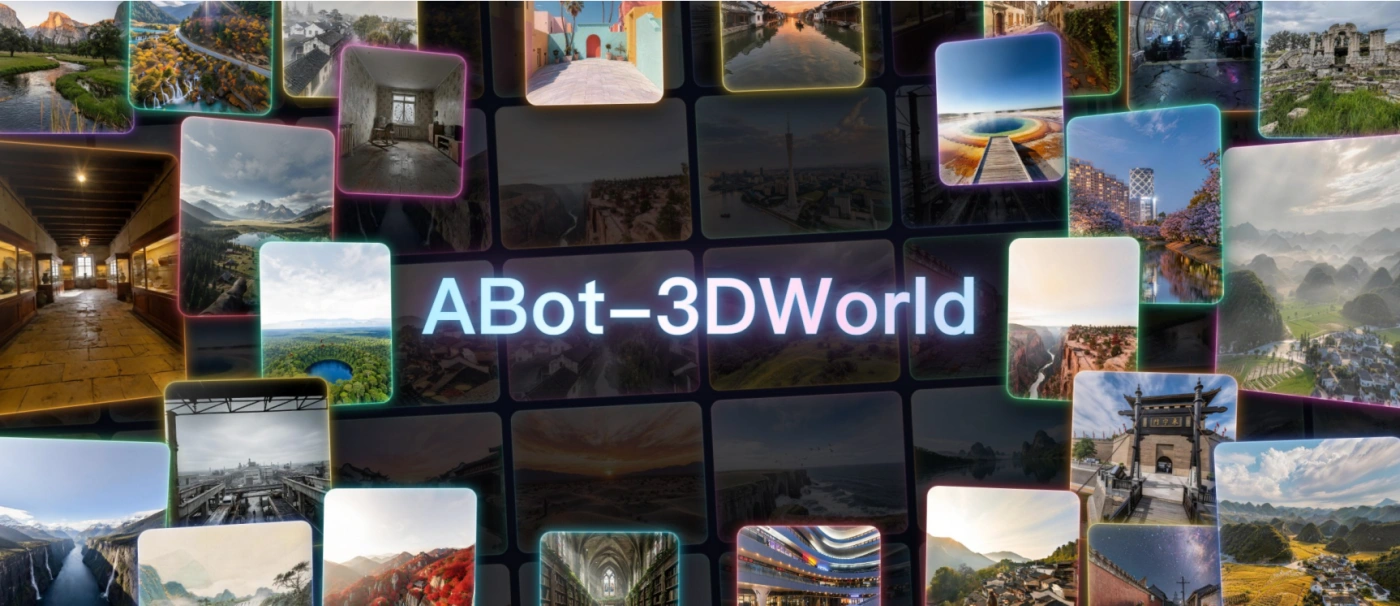
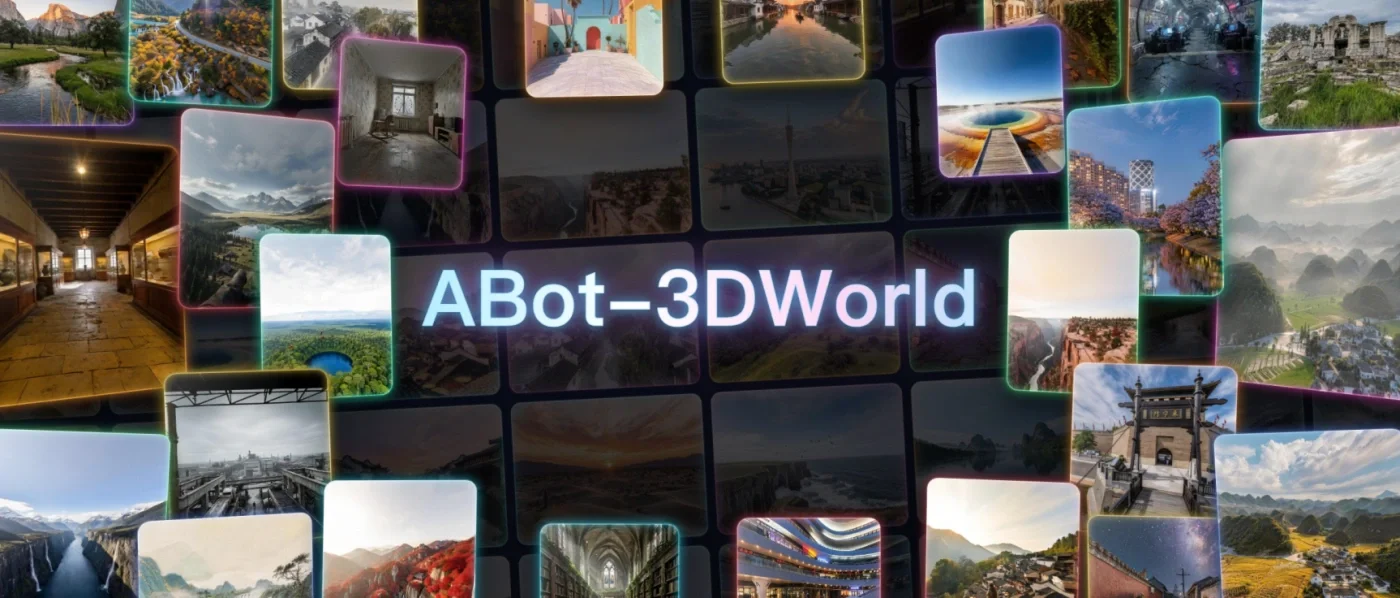
content + UX polish: news expansion, CTAs, SEO title, thumbnails
News:
- add AGIBOT World Model Challenge champion (trophy glyph)
- add "Yunjing" (云境) digital-twin talk (WeChat article)
- SocialNav: add project page link
- From Orbit to Ground: add 机器之心 news link

Hero: highlighted "Homepage" copy-to-clipboard CTA (www.mingchaosun.com)
Publications: Benchmark chip promoted to solid-mint CTA (matches Live Demo);
  card data refresh (highlights/thumbs/links for ABot-N1, ABot-EARTH, POINav,
  WorldRoamBench, ABot-World code, SocialNav award); title-wrap pretty
Layout: <title> leads with affiliation for the Google snippet
Thumbnails: crop white top edge (ABot-World, ABot-3DWorld); add ABot-N1,
  POINav, WorldRoamBench, Abot-N0; re-crop ABot-EARTH

diff --git a/src/data/site.ts b/src/data/site.ts
@@ -174,8 +174,8 @@ export const news: NewsEntry[] = [
   {
     year: '2026.07',
     text: {
-      en: 'Released **WorldRoamBench**, an open-world benchmark probing the long-horizon stability of interactive world models. [homepage →](https://worldroam.amap.com/)',
-      zh: '发布 **WorldRoamBench**,衡量交互式世界模型长时序稳定性的开放世界基准。[主页 →](https://worldroam.amap.com/)',
+      en: 'Released **WorldRoamBench**, an open-world benchmark probing the long-horizon stability of interactive world models. [Benchmark homepage →](https://worldroam.amap.com/)',
+      zh: '发布 **WorldRoamBench**,衡量交互式世界模型长时序稳定性的开放世界基准。[Benchmark 主页 →](https://worldroam.amap.com/)',
     },
   },
   {
@@ -188,15 +188,22 @@ export const news: NewsEntry[] = [
   {
     year: '2026.06',
     text: {
-      en: '**SocialNav**, a human-inspired foundation model for socially-aware navigation — selected as a **CVPR 2026 Best Paper Candidate**!',
-      zh: '**SocialNav**,受人类启发的具身社会感知导航基础模型——入选 **CVPR 2026 最佳论文候选**!',
+      en: '**SocialNav**, a human-inspired foundation model for socially-aware navigation — selected as a **CVPR 2026 Best Paper Candidate**! [project →](https://amap-eai.github.io/SocialNav/)',
+      zh: '**SocialNav**,受人类启发的具身社会感知导航基础模型——入选 **CVPR 2026 最佳论文候选**![项目主页 →](https://amap-eai.github.io/SocialNav/)',
+    },
+  },
+  {
+    year: '2026.05',
+    text: {
+      en: '🏆 Won **1st place** at the **AGIBOT World Model Challenge**.',
+      zh: '🏆 荣获 **AGIBOT World Model Challenge** 大赛**冠军**。',
     },
   },
   {
     year: '2026.03',
     text: {
-      en: '**From Orbit to Ground** accepted to CVPR 2026 Findings — generative city-scale photogrammetry from extreme off-nadir satellite imagery. [project →](https://pku-vcl-geometry.github.io/Orbit2Ground/)',
-      zh: '**From Orbit to Ground** 被 CVPR 2026 Findings 接收——从极端倾斜卫星影像做生成式城市级摄影测量。[项目主页 →](https://pku-vcl-geometry.github.io/Orbit2Ground/)',
+      en: '**From Orbit to Ground** accepted to CVPR 2026 Findings — generative city-scale photogrammetry from extreme off-nadir satellite imagery. [project →](https://pku-vcl-geometry.github.io/Orbit2Ground/) [news →](https://mp.weixin.qq.com/s/Ntnd1ooLbcJ-kNB9sQ4jzQ)',
+      zh: '**From Orbit to Ground** 被 CVPR 2026 Findings 接收——从极端倾斜卫星影像做生成式城市级摄影测量。[项目主页 →](https://pku-vcl-geometry.github.io/Orbit2Ground/) [机器之心报道 →](https://mp.weixin.qq.com/s/Ntnd1ooLbcJ-kNB9sQ4jzQ)',
     },
   },
   {
@@ -211,6 +218,13 @@ export const news: NewsEntry[] = [
     text: {
       en: '**CLoD-GS** accepted to ICLR 2026 — continuous level-of-detail rendering built on 3D Gaussian Splatting.',
       zh: '**CLoD-GS** 被 ICLR 2026 接收——基于 3D 高斯泼溅的连续细节层次渲染。',
+    },
+  },
+  {
+    year: '2025.08',
+    text: {
+      en: 'Gave a talk on **"Yunjing" (云境)**, AMap\'s immersive AI product — sharing its core capabilities and AMap\'s recent advances in digital-twin technology and applications. [news →](https://mp.weixin.qq.com/s/mZhDBmQXgsPaHyNINRfJ7A?scene=1)',
+      zh: '分享高德地图沉浸式 AI 产品**"云境"**的核心技术能力,展示高德近期在数字孪生领域的技术成果与应用场景。[公众号文章 →](https://mp.weixin.qq.com/s/mZhDBmQXgsPaHyNINRfJ7A?scene=1)',
     },
   },
 ];
@@ -247,9 +261,13 @@ export const publications: Publication[] = [
     venue: 'Technical Report',
     year: 2026,
     citations: 0,
-    highlight: 'Infinite interactive world rollout that fits on a single desktop GPU.',
+    highlight: 'An action-conditioned video world model enabling real-time, long-horizon closed-loop interaction, trained on AAA games, simulators, and web video.',
     thumb: '/pub/abotworld.webp',
-    links: [{ label: 'arXiv', url: 'https://arxiv.org/abs/2607.19191' }],
+    links: [
+      { label: 'demo', url: 'https://abot-world.amap.com/' },
+      { label: 'arXiv', url: 'https://arxiv.org/abs/2607.19191' },
+      { label: 'code', url: 'https://github.com/amap-cvlab/ABot-World' },
+    ],
   },
   {
     title: 'ABot-3DWorld 0: A Universal World Model to Explore Any 3D Space',
@@ -258,10 +276,13 @@ export const publications: Publication[] = [
     venue: 'Technical Report',
     year: 2026,
     citations: 1,
-    highlight: 'A universal world model that can explore and interact with any 3D space. (first-author)',
+    highlight: 'A universal multimodal 3D world model that turns text, image, and video inputs into high-fidelity, explorable 3D worlds.',
     thumb: '/pub/abot3dworld.webp',
     featured: true,
-    links: [{ label: 'arXiv', url: 'https://arxiv.org/abs/2607.11673' }],
+    links: [
+      { label: 'demo', url: 'https://abot-world.amap.com/plaza' },
+      { label: 'arXiv', url: 'https://arxiv.org/abs/2607.11673' },
+    ],
   },
   {
     title: 'ABot-N1: Toward a General Visual-Language Navigation Foundation Model',
@@ -270,18 +291,28 @@ export const publications: Publication[] = [
     venue: 'Technical Report',
     year: 2026,
     citations: 0,
-    highlight: 'A general visual-language navigation foundation model.',
-    links: [{ label: 'arXiv', url: 'https://arxiv.org/abs/2607.10383' }],
+    highlight: 'A step toward a general Visual Language Navigation foundation model, decoupling cognition from control via a slow-fast architecture guided by dual visual-language signals.',
+    thumb: '/pub/abotn1.webp',
+    whiteThumb: true,
+    links: [
+      { label: 'arXiv', url: 'https://arxiv.org/abs/2607.10383' },
+      { label: 'project', url: 'https://amap-cvlab.github.io/ABot-Navigation/ABot-N1/' },
+      { label: 'code', url: 'https://github.com/amap-cvlab/ABot-Navigation/tree/ABotN-Bench' },
+    ],
   },
   {
     title: 'WorldRoamBench: An Open-World Benchmark for Long-Horizon Stability of Interactive World Models',
     authors: 'TB Xu, J Sui, Z Gao, K Shi, W Yang, Z Liu, Z Sun, M Sun, H Pan, F Jiang, et al.',
     fullAuthors: 'Ting-Bing Xu, Jiacheng Sui, Zhe Gao, Kewei Shi, Wenjin Yang, Zhicheng Liu, Zhaoxu Sun, Mingchao Sun, Hongyu Pan, Fan Jiang, Mu Xu, Qi Fan, Yang Gao, Yong Li, Baoquan Chen',
-    venue: 'arXiv',
+    venue: 'Benchmark',
     year: 2026,
     citations: 1,
     highlight: 'A benchmark probing long-horizon stability of interactive world models.',
-    links: [{ label: 'arXiv', url: 'https://arxiv.org/abs/2606.31672' }],
+    thumb: '/pub/worldroambench.webp',
+    links: [
+      { label: 'benchmark', url: 'https://worldroam.amap.com/' },
+      { label: 'arXiv', url: 'https://arxiv.org/abs/2606.31672' },
+    ],
   },
   {
     title: 'ABot-EARTH 0.5: Generative 3D Earth Model',
@@ -290,10 +321,14 @@ export const publications: Publication[] = [
     venue: 'Technical Report',
     year: 2026,
     citations: 1,
-    highlight: 'A generative 3D model of the Earth.',
+    highlight: 'A generative 3D framework that synthesizes vast, seamless 3D environments from ubiquitous, geospatially referenced satellite imagery.',
     thumb: '/pub/abotearth.webp',
+    whiteThumb: true,
     featured: true,
-    links: [{ label: 'arXiv', url: 'https://arxiv.org/abs/2606.09967' }],
+    links: [
+      { label: 'demo', url: 'https://abot-earth.amap.com/' },
+      { label: 'arXiv', url: 'https://arxiv.org/abs/2606.09967' },
+    ],
   },
   {
     title: 'POINav: Benchmarking and Enhancing Final-Meters Arrival in Real-World Vision-Language Navigation',
@@ -302,7 +337,9 @@ export const publications: Publication[] = [
     venue: 'arXiv',
     year: 2026,
     citations: 1,
-    highlight: 'Benchmarking and enhancing final-meters arrival in real-world VLN.',
+    highlight: 'POINav-Bench, the first benchmark designed for closed-loop evaluation of real-world POI-goal navigation, and the POINav Brain-Action Framework, where a Brain module performs POI-grounded reasoning to guide an Action module in predicting continuous waypoints for real-world execution.',
+    thumb: '/pub/poinav.webp',
+    whiteThumb: true,
     links: [{ label: 'arXiv', url: 'https://arxiv.org/abs/2605.28237' }],
   },
   {
@@ -312,8 +349,15 @@ export const publications: Publication[] = [
     venue: 'Technical Report',
     year: 2026,
     citations: 15,
-    highlight: 'A vision-language-action (VLA) foundation model for versatile embodied navigation.',
-    links: [{ label: 'arXiv', url: 'https://arxiv.org/abs/2602.11598' }],
+    highlight: 'A unified Vision-Language-Action (VLA) foundation model that achieves a "Grand Unification" across 5 core tasks.',
+    thumb: '/pub/abotn0.webp',
+    whiteThumb: true,
+    featured: true,
+    links: [
+      { label: 'arXiv', url: 'https://arxiv.org/abs/2602.11598' },
+      { label: 'project', url: 'https://amap-cvlab.github.io/ABot-Navigation/ABot-N0/' },
+      { label: 'code', url: 'https://github.com/amap-cvlab/ABot-Navigation/tree/ABot-N0' },
+    ],
   },
   {
     title: 'From Orbit to Ground: Generative City Photogrammetry from Extreme Off-Nadir Satellite Images',
@@ -362,6 +406,7 @@ export const publications: Publication[] = [
     thumb: '/pub/socialnav.webp',
     featured: true,
     frame: true,
+    award: 'CVPR 2026 Best Paper Candidate',
     links: [
       { label: 'arXiv', url: 'https://arxiv.org/abs/2511.21135' },
       { label: 'code', url: 'https://github.com/AMAP-EAI/SocialNav' },
